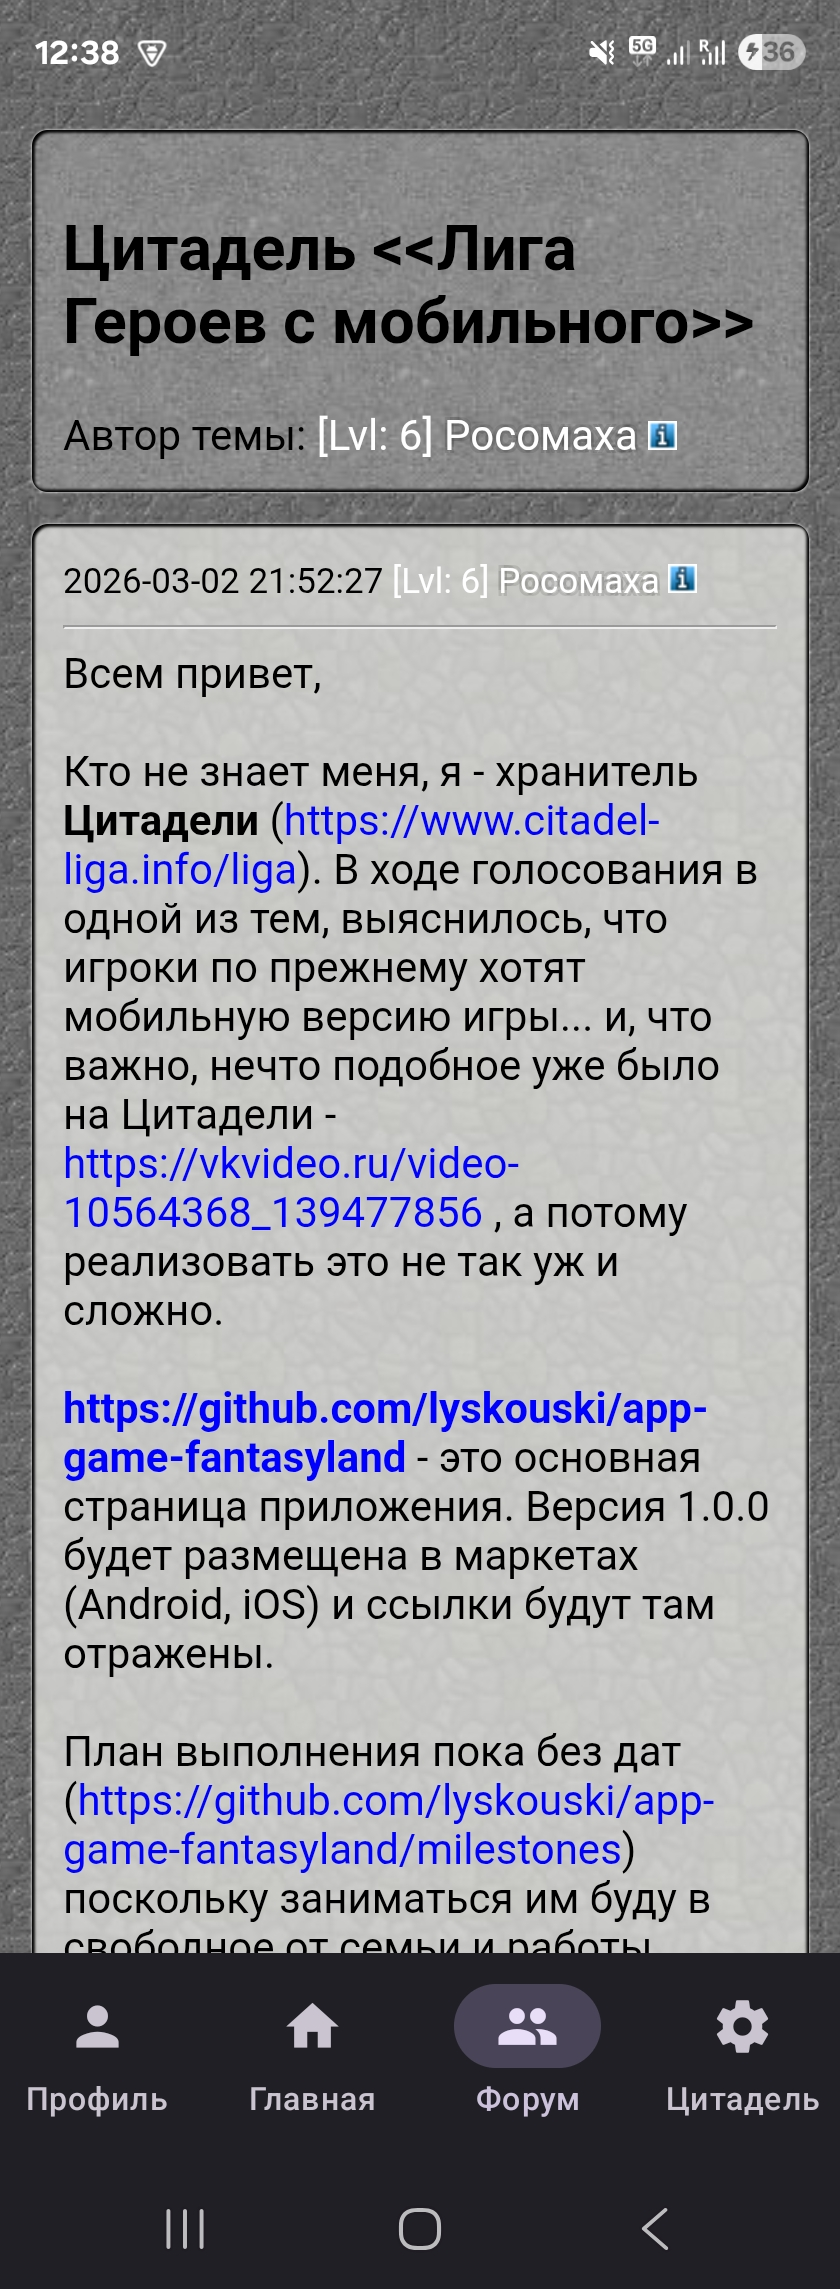
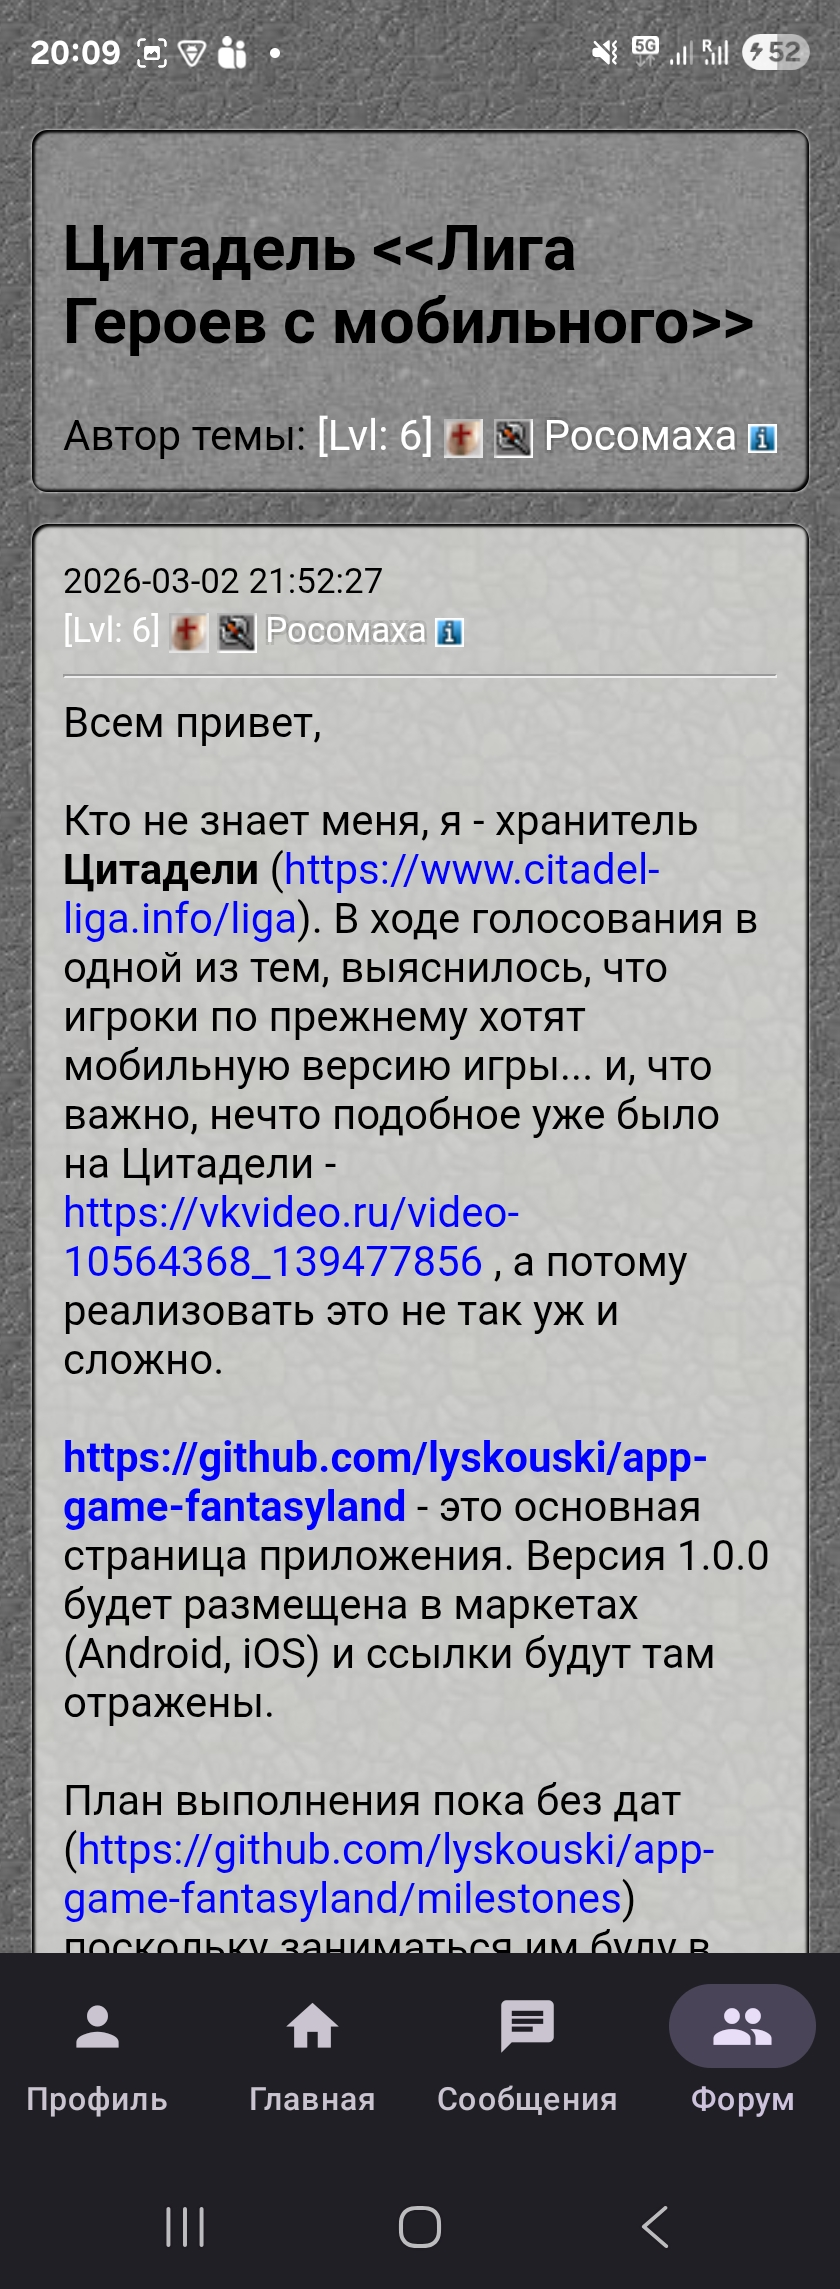
[#47] [CR] Forum: show guilds for user. Add samples

diff --git a/app/Services/ForumParser.php b/app/Services/ForumParser.php
@@ -72,7 +72,7 @@ class ForumParser
             $this->getClanImage($args[8], $clanData) .
             $this->getClanImage($args[10], $clanData) .
             "&nbsp;<font color='#{$args[5]}' class='shadow'>{$args[1]}</font>" .
-            "&nbsp;<img src='/images/info_{$args[15]}.gif' alt='[{$args[15]}]' />" .
+            "&nbsp;<img align='absmiddle' src='/images/info_{$args[15]}.gif' alt='[{$args[15]}]' />" .
             "</span>";
     }
 
@@ -120,7 +120,7 @@ class ForumParser
             return '';
         }
 
-        return "&nbsp;<img src='https://www.fantasyland.ru/images/clans/{$imgName}' alt='{$clanName}' />";
+        return "&nbsp;<img align='absmiddle' src='https://www.fantasyland.ru/images/clans/{$imgName}' alt='{$clanName}' />";
     }
 
     public function parseForum(string $html, string $w): array